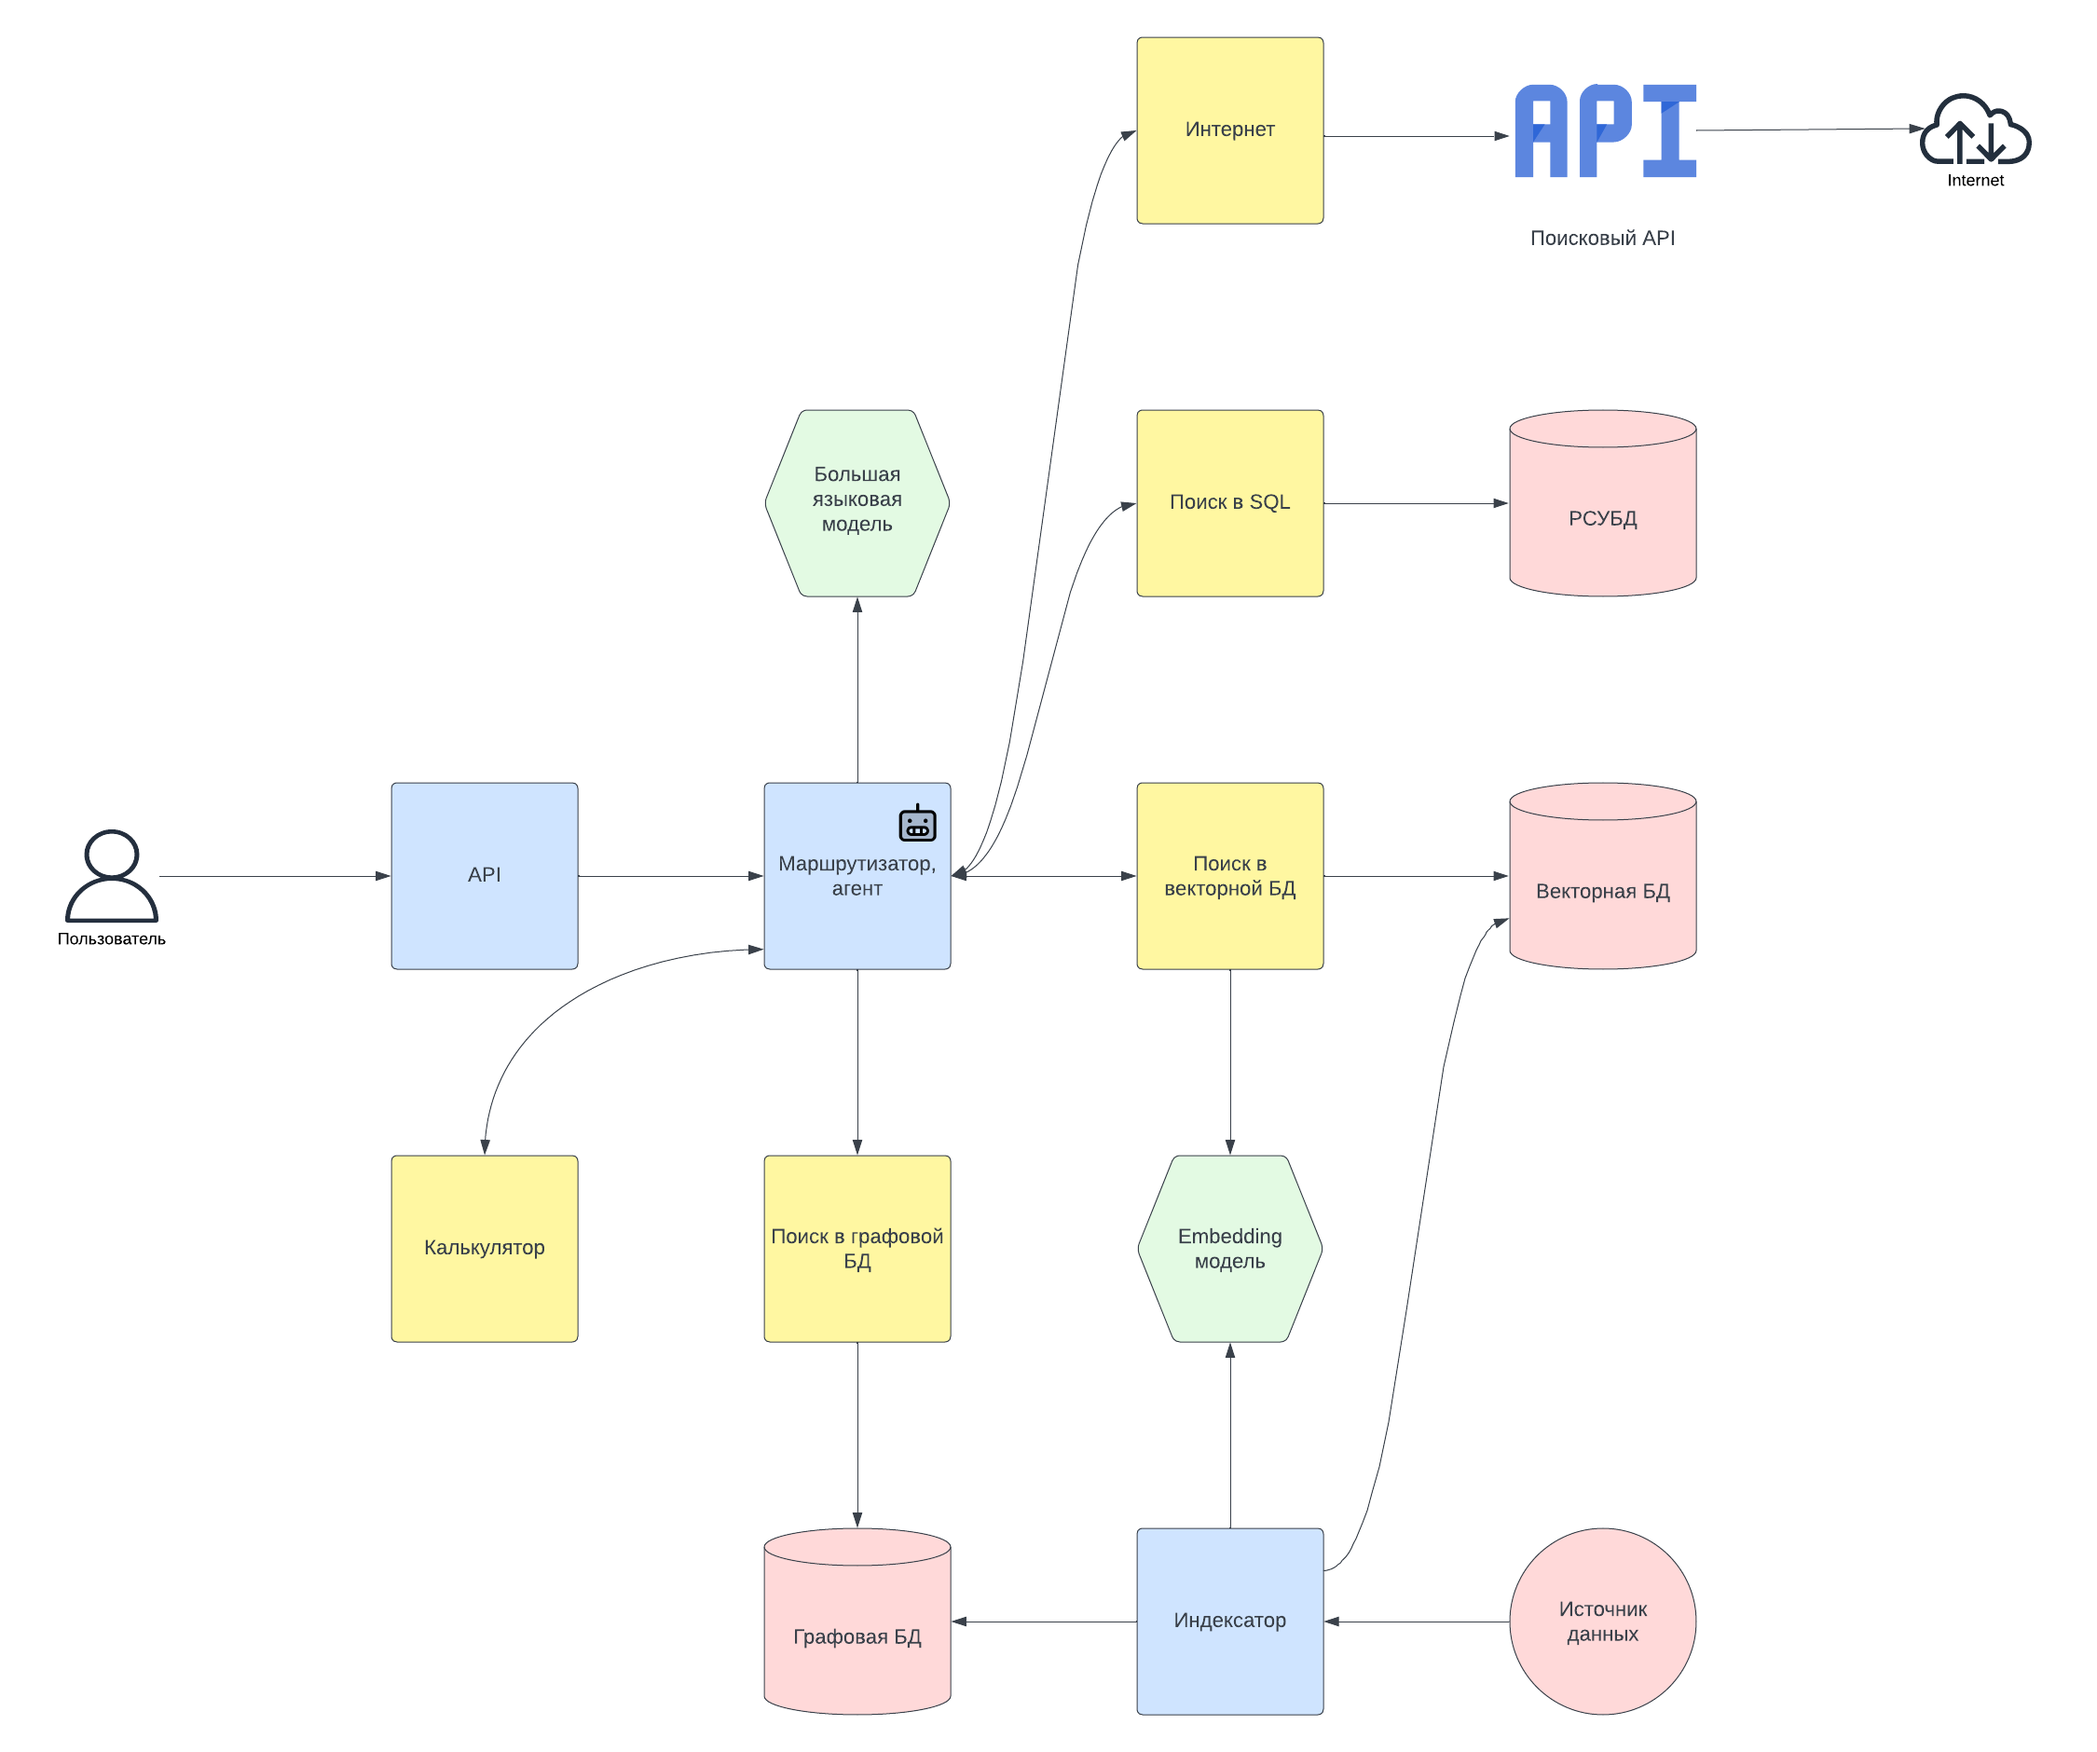
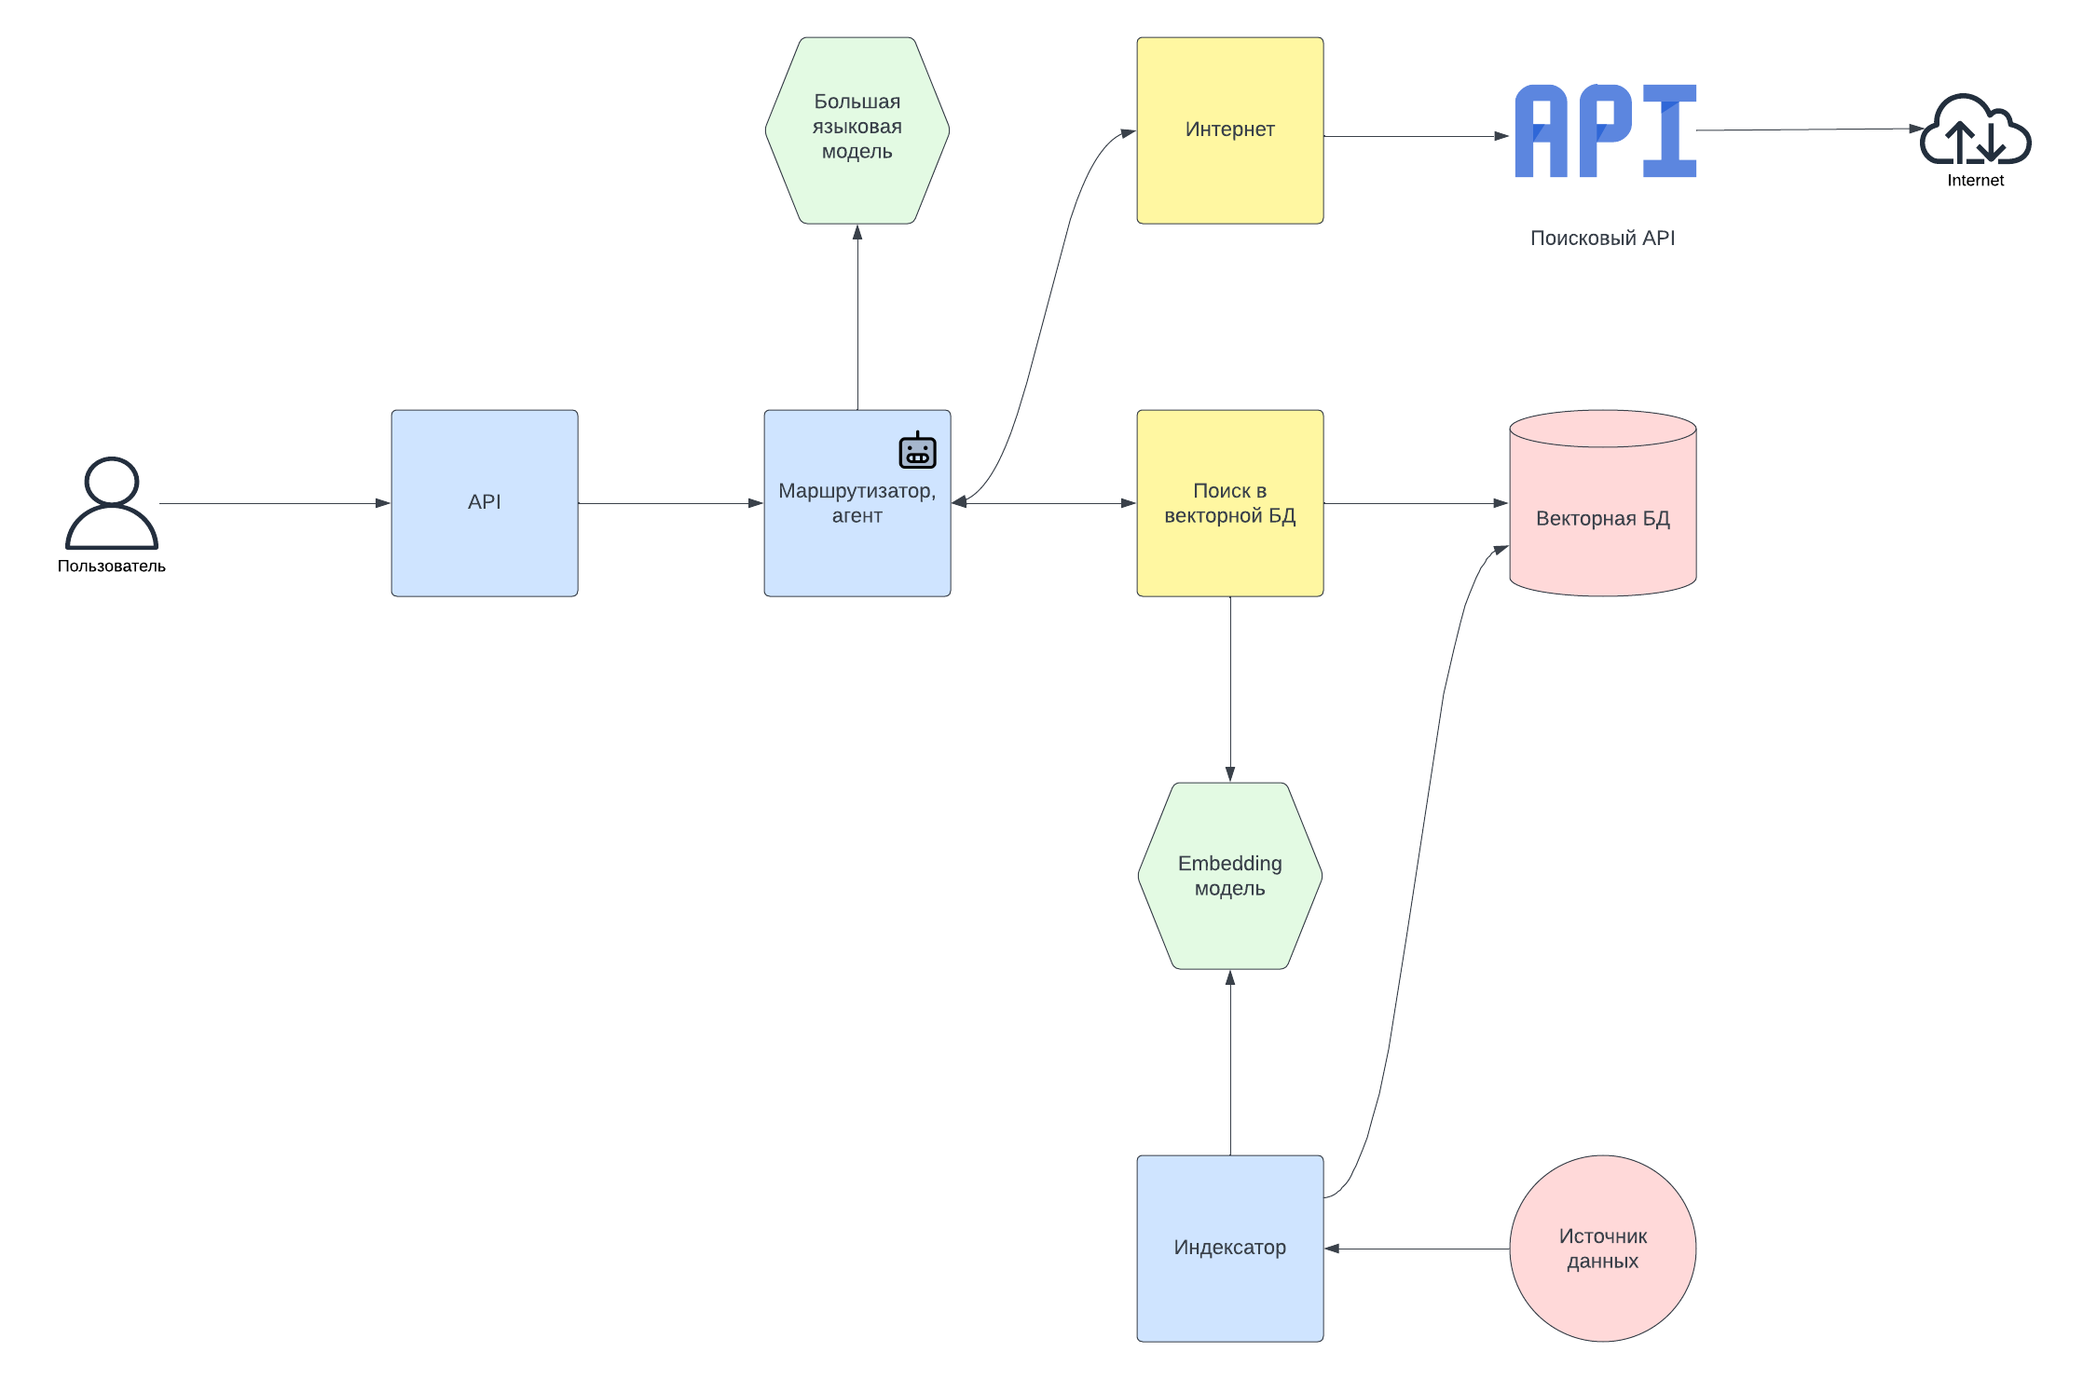
Fix, simplified cases. Agent.

diff --git a/rag/modules/agent.py b/rag/modules/agent.py
@@ -1,0 +1,182 @@
+"""
+Query router - determines user's intent and either sends request to Weaviate, or to
+internet search module.
+"""
+
+from logging import getLogger
+from typing import Optional
+
+from llama_index.core import PromptTemplate, Response
+from llama_index.core.llms import ChatMessage, ChatResponse, MessageRole
+from llama_index.core.query_engine import CustomQueryEngine
+from llama_index.core.tools import QueryEngineTool
+
+from rag.llm import get_llm
+from rag.llm.yandex import YandexLLM
+from rag.modules import internet, search
+
+logger = getLogger(__name__)
+
+
+class AgentQueryEngine(CustomQueryEngine):
+    """Agent query engine"""
+
+    MAX_CALLS: int = 5
+    SYSTEM_PROMPT: PromptTemplate = PromptTemplate(
+        """Ты - агент, обрабатывающий запросы пользователя. Помоги пользователю найти ответ на его вопрос.
+        
+Cписок инструментов, их параметры и описание.
+---------------------
+{tools_str}
+
+stop: Ответ был найден ранее и присутствует в контексте, остановить обработку запроса и дальнейшие вызовы инструментов.
+---------------------
+
+Твоя задача - ответить на запрос пользователя, используя наиболее подходящий инструмент из списка.
+Не вызывай один и тот же инструмент несколько раз с одинаковыми параметрами.
+Если ответ на запрос присутствует в истории, используй инструмент 'stop' для завершения обработки запроса и возврата ответа.
+
+Если запрос состоит из нескольких частей, разбей его на несколько вопросов и используй несколько инструментов последовательно для обработки запроса.
+Ответ должен содержать только имя инструмента и параметры для его вызова."""
+    )
+
+    SUMMARIZE_PROMPT: PromptTemplate = PromptTemplate(
+        """Первоначальный запрос пользователя:
+---------------------
+{query_str}
+---------------------
+
+История вызовов инструментов:
+---------------------
+{tool_history_str}
+---------------------
+
+Твоя задача - суммаризировать ответы инструментов и ответить на вопрос пользователя.
+Ответ:"""
+    )
+
+    llm: YandexLLM
+    tools: list[QueryEngineTool]
+
+    def summarize(self, query: str, tool_history: dict) -> str:
+        """
+        Summarize the query using the tool history and the query itself.
+        """
+        logger.debug("summarize, query=%s, tool_history=%s", query, tool_history)
+
+        prompt: str = self.SUMMARIZE_PROMPT.format(
+            query_str=query,
+            tool_history_str="\n\n".join(
+                [f"{k}\n{v}" for k, v in tool_history.items()]
+            ),
+        )
+        logger.debug("summarize, prompt=%s", prompt)
+
+        return str(self.llm.complete(prompt)).strip()
+
+    def custom_query(self, query_str: str) -> str:
+        """Custom query handler"""
+        logger.debug("custom_query, query_str=%s", query_str)
+
+        current_response: str = ""
+        tool_history = {}
+
+        # buiding a tool list for an LLM
+        tools = []
+
+        for tool in self.tools:
+            tools.append(f"{tool.metadata.name}(query): {tool.metadata.description}")
+
+        tools_str: str = "\n\n".join(tools)
+
+        messages: list[ChatMessage] = [
+            ChatMessage(
+                role=MessageRole.SYSTEM,
+                content=self.SYSTEM_PROMPT.format(tools_str=tools_str),
+            ),
+            ChatMessage(role=MessageRole.USER, content=query_str),
+        ]
+        current_call: int = 0
+
+        while current_call < self.MAX_CALLS:
+            logger.debug("custom_query, current_call=%s", current_call)
+            response: ChatResponse = self.llm.chat(messages)
+            messages.append(response.message)
+
+            selected_tool: str = str(response.message.content).strip()
+            logger.debug("custom_query, selected_tool=%s", selected_tool)
+
+            tool_name: str = selected_tool.split("(", maxsplit=1)[0].strip()
+            tool_params: str = selected_tool[
+                selected_tool.find("(") + 1 : selected_tool.find(")")
+            ].strip()
+
+            if tool_params.startswith('"') and tool_params.endswith('"'):
+                tool_params = tool_params[1:-1]
+
+            if f'{tool_name}("{tool_params}")' in tool_history:
+                logger.warning(
+                    "custom_query, tool=%s, params=%s already called",
+                    tool_name,
+                    tool_params,
+                )
+
+                break
+
+            logger.debug(
+                "custom_query, tool_name=%s, tool_params=%s", tool_name, tool_params
+            )
+
+            if tool_name == "stop":
+                break
+
+            else:
+                tool_obj: Optional[QueryEngineTool] = None
+
+                for tool in self.tools:
+                    if tool_name == tool.metadata.name:
+                        tool_obj = tool
+                        break
+
+                if tool_obj is None:
+                    logger.error("custom_query, unknown tool=%s", tool_name)
+                    break
+
+                current_response = tool_obj.call(tool_params).content
+
+            tool_history[f'{tool_name}("{tool_params}")'] = current_response
+            messages.append(
+                ChatMessage(role=MessageRole.ASSISTANT, content=current_response)
+            )
+            messages.append(
+                ChatMessage(role=MessageRole.USER, content="Следующий инструмент")
+            )
+            current_call += 1
+
+        if len(tool_history) > 0:
+            current_response = self.summarize(query_str, tool_history)
+
+        if not current_response:
+            current_response = "Извините, я не могу найти ответ на ваш запрос."
+
+        return current_response
+
+
+def run(query: str) -> str:
+    """Run the router."""
+    logger.debug("run, query=%s", query)
+
+    agent: AgentQueryEngine = AgentQueryEngine(
+        llm=get_llm(),
+        tools=[search.get_tool(), internet.get_tool()],
+    )
+
+    response: Response = agent.query(query)
+    response_text: str = response.response
+
+    if response_text == "Empty Response":
+        response_text = "Извините, я не могу найти ответ на ваш запрос."
+
+    logger.debug("run, querying router, got response=%s", response.response)
+
+    return response_text

diff --git a/rag/modules/search.py b/rag/modules/search.py
@@ -25,10 +25,6 @@ def get_tool() -> QueryEngineTool:
         vector_store=vector_store,
         embed_model=get_embedding_model(),
     )
-    logger.debug(
-        "retrieve test 1, %s", index.as_retriever().retrieve("Question answering")
-    )
-    logger.debug("retrieve test 2, %s", index.as_retriever().retrieve("MERA"))
 
     vector_query_engine: query_engine.BaseQueryEngine = index.as_query_engine(
         vector_store_query_mode="hybrid",
@@ -41,8 +37,8 @@ def get_tool() -> QueryEngineTool:
         query_engine=vector_query_engine,
         name="database_search_tool",
         description=(
-            "Полезен для поиска информации об LLM (больших языковых моделях), RAG и донастройке моделей. "
-            "Если запрос не относится к этим темам, этот инструмент не должен быть выбран."
+            "Полезен для поиска информации об LLM (больших языковых моделях), RAG, нейросетях, метриках. "
+            "При поиске терминов стоит использовать сначала этот инструмент."
         ),
     )
 

diff --git a/rag/modules/router.py b/rag/modules/router.py
@@ -25,7 +25,7 @@ class RAGQueryEngine(CustomQueryEngine):
         "---------------------\n"
         "{tools_str}\n"
         "---------------------\n"
-        "Выбери инструмент из этого списка. наиболее подходящий для обработки запроса. "
+        "Выбери инструмент из этого списка, наиболее подходящий для обработки запроса. "
         "Ответ должен включать только имя инструмента и ничего больше.\n"
         "Запрос: {query_str}\n"
         "Инструмент:"

diff --git a/rag/service/handler.py b/rag/service/handler.py
@@ -8,7 +8,7 @@ from uuid import UUID
 from sqlalchemy.ext.asyncio import AsyncSession
 
 from rag.db.sql.models import Chat, Message
-from rag.modules import router
+from rag.modules import agent, router
 from rag.service import chat
 
 logger = getLogger(__name__)
@@ -27,7 +27,6 @@ async def process_user_message(
         raise ValueError("Chat not found")
 
     await chat.create_message(db, chat_id, message, False)
-    response: str = router.run(message)
-    logger.debug("process_user_message, response=%s", type(response))
+    response: str = agent.run(message)
 
     return await chat.create_message(db, chat_id, response, True)

diff --git a/rag/llm/__init__.py b/rag/llm/__init__.py
@@ -24,8 +24,11 @@ def get_llm() -> YandexLLM:
         return _model
 
     _model = YandexLLM(
-        yandex_gpt=YandexGPT(
-            api_key=YANDEX_API_KEY, folder_id=YANDEX_FOLDER_ID, model_name="yandexgpt"
+        yandex_gpt=ChatYandexGPT(
+            api_key=YANDEX_API_KEY,
+            folder_id=YANDEX_FOLDER_ID,
+            model_name="yandexgpt",
+            temperature=0.01,
         )
     )
 

diff --git a/rag/modules/indexer.py b/rag/modules/indexer.py
@@ -50,9 +50,4 @@ def run():
         show_progress=True,
     )
 
-    logger.debug(
-        "retriever test 1, %s", index.as_retriever().retrieve("Question answering")
-    )
-    logger.debug("retriever test 2, %s", index.as_retriever().retrieve("MERA"))
-
     logger.debug("run, vector store index created, %s", index)

diff --git a/README.md b/README.md
@@ -11,6 +11,7 @@
 
 - Само приложение (`main.py`)
 - Индексатор - (`rag/modules/index.py`)
+- Агент (`rag/modules/agent.py`)
 - Маршрутизатор (`rag/modules/route.py`)
 - Поиск по базе знаний (`rag/modules/search.py`)
 - Инструмент поиска в интернете (`rag/modules/internet.py`)
@@ -58,15 +59,11 @@
 
 Индексация данных:
 
-    python main.py index
+    python indexer.py
 
-Поиск информации в базе данных:
+Запуск API:
 
-    python main.py query "what is MERA benchmark for LLM?"
-
-Поиск в интернете:
-
-    python main.py query "как называется столица Буркина-Фасо?"
+    python main.py
 
 ## Очистка БД
 
